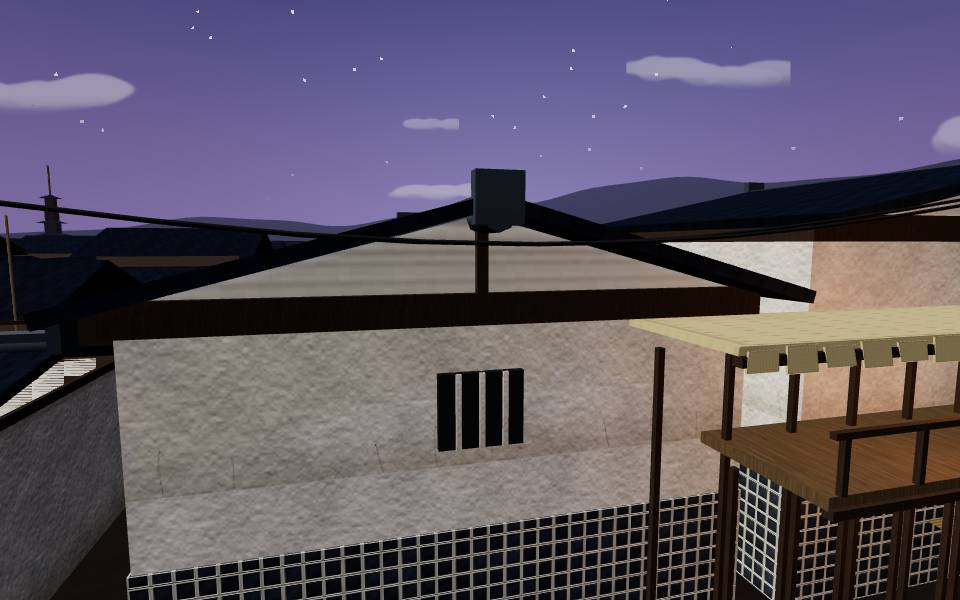
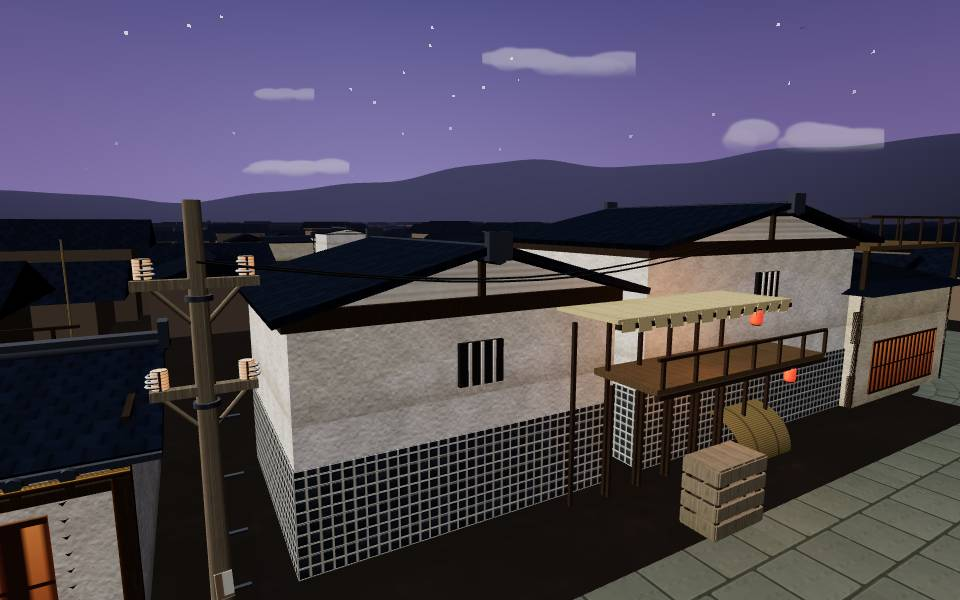
r2b-roofs-streets fix round 1: budgets in branch with measured numbers, per-cell meshes for wide pieces (draw calls <= classic), re-framed kura pair

diff --git a/src/kit/roofstreets/shared.js b/src/kit/roofstreets/shared.js
@@ -39,19 +39,36 @@ const partKey = (k) => k.replace(/[A-Z]/g, (c) => '_' + c.toLowerCase()).replace
 const TAU = Math.PI * 2;
 
 export class Multi {
-  constructor(ctx) { this.ctx = ctx; this.bags = new Map(); this.mats = new Map(); }
-  _bag(m) {
-    if (!this.bags.has(m)) { this.bags.set(m, new Bag()); this.mats.set(m, material(this.ctx, m)); }
-    return this.bags.get(m);
+  constructor(ctx, layout = null) { this.ctx = ctx; this.layout = layout; const pc = layout && layout.piece; this.split = !!pc && pc.s1 - pc.s0 > 12; this.bags = new Map(); this.mats = new Map(); }
+  /**
+   * The bag for material `m` in the 32 m world cell of local point (x, z): the Roof Road's own
+   * mergeByMaterial buckets a mesh by its centre's cell, so a wide building must hand it one
+   * mesh per cell (as classic's many boxes do) to merge into the same number of batches.
+   */
+  _bag(m, x = 0, z = 0) {
+    if (!this.mats.has(m)) this.mats.set(m, material(this.ctx, m));
+    const L = this.layout || { x: 0, z: 0, ry: 0 };
+    if (!this.split) x = z = 0;   // a short piece keeps one cell (its origin), so its parts stay one connected mesh set
+    const c = Math.cos(L.ry || 0), sn = Math.sin(L.ry || 0);
+    const wx = (L.x || 0) + x * c + z * sn, wz = (L.z || 0) - x * sn + z * c;
+    const key = `${m}@${Math.floor(wx / 32)}@${Math.floor(wz / 32)}`;
+    if (!this.bags.has(key)) this.bags.set(key, new Bag());
+    return this.bags.get(key);
   }
-  add(geo, o) { const { m, ...rest } = o; this._bag(m).add(geo, rest); return this; }
+  add(geo, o) {
+    const { m, x = 0, y = 0, z = 0, ...rest } = o;
+    if (!geo.boundingBox) geo.computeBoundingBox();
+    const bc = geo.boundingBox.getCenter(new THREE.Vector3());
+    this._bag(m, x + bc.x * (rest.sx ?? 1), z + bc.z * (rest.sz ?? 1)).add(geo, { x, y, z, ...rest });
+    return this;
+  }
   /** Box as the classic box(): world-scale UVs unless the material is a `panel`. */
   box(w, h, d, o) {
     const { m, x = 0, y = 0, z = 0, ...rest } = o;
     const g = new THREE.BoxGeometry(w, h, d);
     this._bag(m);
     if (!(this.mats.get(m).userData && this.mats.get(m).userData.panel)) worldScaleBoxUVs(g, 1);
-    this._bag(m).add(g, { x, y, z, ...rest });
+    this._bag(m, x, z).add(g, { x, y, z, ...rest });
     return this;
   }
   /** Cylinder as the classic cyl(): paper lanterns are the lathe barrel with dark caps. */
@@ -68,12 +85,12 @@ export class Multi {
     const pos = { x, y, z };
     if (paper) {
       const prof = [[-0.5, 0.7], [-0.42, 0.94], [-0.25, 1], [0.25, 1], [0.42, 0.94], [0.5, 0.7]].map(([yy, w]) => new THREE.Vector2(r * w, len * yy));
-      this._bag(m).add(place(new THREE.LatheGeometry(prof, seg)), { ...pos, ...rest });
+      this._bag(m, x, z).add(place(new THREE.LatheGeometry(prof, seg)), { ...pos, ...rest });
       for (const sgn of [-1, 1]) {
         const c = rot(sgn * len * 0.5);
         this.add(place(new THREE.CylinderGeometry(r * 0.74, r * 0.74, len * 0.065, seg)), { m: 'dark', x: x + c.x, y: y + c.y, z: z + c.z, ...rest });
       }
-    } else this._bag(m).add(place(new THREE.CylinderGeometry(r, r, len, seg)), { ...pos, ...rest });
+    } else this._bag(m, x, z).add(place(new THREE.CylinderGeometry(r, r, len, seg)), { ...pos, ...rest });
     return this;
   }
   /** Tiled slope: `eave` is the low edge's midpoint; see common.js slope(). */
@@ -102,11 +119,14 @@ export class Multi {
 export function finish(multi, name, extra = {}) {
   const group = new THREE.Group(), parts = {};
   for (const [key, bag] of multi.bags) {
-    const mesh = bag.mesh(multi.mats.get(key), `${name}_${partKey(key)}`);
+    const [m, cx, cz] = key.split('@');
+    const cell = (v) => (+v < 0 ? 'n' : 'p') + Math.abs(+v);
+    const part = `${name}_${partKey(m)}_${cell(cx)}_${cell(cz)}`;
+    const mesh = bag.mesh(multi.mats.get(m), part);
     if (!mesh) continue;
     mesh.castShadow = mesh.receiveShadow = true;
     group.add(mesh);
-    parts[`${name}_${partKey(key)}`] = mesh;
+    parts[part] = mesh;
   }
   return { group, parts, sockets: {}, live: [], ...extra };
 }

diff --git a/src/kit/roofstreets/roofs.js b/src/kit/roofstreets/roofs.js
@@ -138,7 +138,7 @@ function dressHouse(u, pc) {
 /* ------------------------------------------------------------ buildings --- */
 
 export function buildMachiya(ctx, layout) {
-  const pc = layout.piece, tier = ctx.tier, u = new Multi(ctx), sm = (pc.s0 + pc.s1) / 2;
+  const pc = layout.piece, tier = ctx.tier, u = new Multi(ctx, layout), sm = (pc.s0 + pc.s1) / 2;
   const x0 = pc.s0 - sm, x1 = pc.s1 - sm, zF = pc.dFront, zB = pc.dFront - pc.depth, look = pc.look;
   const far = pc.row === 'far';
   const wall = far && look > 0.55 ? 'bengara' : (look > 0.7 ? 'plasterWarm' : 'plaster');
@@ -187,7 +187,7 @@ export function buildMachiya(ctx, layout) {
 }
 
 export function buildKura(ctx, layout) {
-  const pc = layout.piece, u = new Multi(ctx), sm = (pc.s0 + pc.s1) / 2;
+  const pc = layout.piece, u = new Multi(ctx, layout), sm = (pc.s0 + pc.s1) / 2;
   const x0 = pc.s0 - sm, x1 = pc.s1 - sm, w = x1 - x0, zF = pc.dFront, zB = zF - pc.depth, zm = (zF + zB) / 2;
   u.box(w, pc.foot, pc.depth, { m: 'plaster', y: pc.foot / 2, z: zm });
   u.box(w + 0.05, 1.6, pc.depth + 0.05, { m: 'namako', y: 0.8, z: zm });
@@ -201,7 +201,7 @@ export function buildKura(ctx, layout) {
 }
 
 export function buildKido(ctx, layout) {
-  const pc = layout.piece, u = new Multi(ctx), hw = (pc.s1 - pc.s0) / 2;
+  const pc = layout.piece, u = new Multi(ctx, layout), hw = (pc.s1 - pc.s0) / 2;
   for (const x of [-hw + 0.15, hw - 0.15]) u.box(0.18, 2.2, 0.18, { m: 'timber', x, y: 1.1, z: pc.d });
   u.box(hw * 2, 0.16, 0.2, { m: 'timber', y: 2.1, z: pc.d });
   u.slope('roof', { x: 0, y: 2.15, z: pc.d + 0.55 }, 0.1, 0.55, hw * 2 + 0.3, 0);
@@ -214,20 +214,20 @@ export function buildKido(ctx, layout) {
 }
 
 export function buildSteps(ctx, layout) {
-  const pc = layout.piece, u = new Multi(ctx);
+  const pc = layout.piece, u = new Multi(ctx, layout);
   u.box(pc.s1 - pc.s0, 0.3, 4.0, { m: 'stone', y: pc.y - 0.15, z: pc.d });
   return finish(u, 'steps');
 }
 
 export function buildKomayose(ctx, layout) {
-  const pc = layout.piece, u = new Multi(ctx), w = pc.s1 - pc.s0, step = ctx.tier === 'hero' ? 0.22 : ctx.tier === 'mid' ? 0.44 : 0.88;
+  const pc = layout.piece, u = new Multi(ctx, layout), w = pc.s1 - pc.s0, step = ctx.tier === 'hero' ? 0.22 : ctx.tier === 'mid' ? 0.44 : 0.88;
   u.box(w, 0.1, 0.16, { m: 'timberMed', y: pc.y - 0.05, z: pc.d });
   for (let x = -w / 2 + 0.08; x <= w / 2 - 0.07; x += step) u.box(0.08, pc.y - 0.1, 0.08, { m: 'timberMed', x, y: (pc.y - 0.1) / 2, z: pc.d });
   return finish(u, 'komayose');
 }
 
 export function buildInuyarai(ctx, layout) {
-  const pc = layout.piece, u = new Multi(ctx), w = pc.s1 - pc.s0;
+  const pc = layout.piece, u = new Multi(ctx, layout), w = pc.s1 - pc.s0;
   const geo = new THREE.CylinderGeometry(0.9, 0.9, w, ctx.tier === 'far' ? 4 : 12, 1, true, 0, Math.PI / 2);
   geo.rotateZ(Math.PI / 2);
   u.add(geo, { m: 'inuyarai', z: pc.d - 0.4 });
@@ -235,7 +235,7 @@ export function buildInuyarai(ctx, layout) {
 }
 
 export function buildTsuboniwa(ctx, layout) {
-  const pc = layout.piece, u = new Multi(ctx), sm = (pc.s0 + pc.s1) / 2, k = hash1(sm);
+  const pc = layout.piece, u = new Multi(ctx, layout), sm = (pc.s0 + pc.s1) / 2, k = hash1(sm);
   u.cyl(0.07, 2.2, { m: 'bark', axis: 'y', seg: 6, y: 1.1, z: pc.d - 0.8 });
   const n = ctx.tier === 'far' ? 3 : 7;
   for (let i = 0; i < n; i++)

diff --git a/src/kit/budgets.js b/src/kit/budgets.js
@@ -49,6 +49,19 @@ export const KIT_LIMITS = Object.freeze({
  * fields it names and must cite why. Added by the owning lane in its PR.
  */
 export const BUDGET_EXCEPTIONS = Object.freeze({
+  // Roof Road buildings (r2b-roofs-streets): measured with kit_contract_test --family roofstreets, uptime 1-min load 1.5 (R54: < 3)
+  'roof-machiya': {
+    hero: { meshes: 58, materials: 28, buildMs: 12 }, mid: { meshes: 40, materials: 21 }, far: { meshes: 16, materials: 7 },
+    why: 'contract sample = the 67 m near-row house with deck, futon, vines, byobu, lanterns and kaisho on (3 batch cells, one mesh per material per cell so the Roof Road merge keeps classic draw counts): modular 58/40/16 meshes, 28/21/7 materials hero/mid/far, warm build 11.0 ms (load 1.5). Classic builds the same record as 413 meshes / 8892 tris (golden, largest real house); modular 26 meshes / 8021 tris. Materials are the page ctx.MAT set, the same the classic house uses'
+  },
+  'roof-kura': {
+    mid: { materials: 6 }, far: { meshes: 5, materials: 5 },
+    why: 'plaster, namako, timber, dark, roof, ridge: the six materials of the classic kura. Classic 17 meshes / 520 tris, modular 6 meshes / 374 tris (golden, 5 real kura)'
+  },
+  'roof-kido': {
+    far: { meshes: 4, materials: 4 },
+    why: 'timber, roof, ridge, timberMed: the four materials of the classic kido. Classic 11 meshes / 152 tris, modular 4 meshes / 152 tris (golden)'
+  },
   // Phase 5 r3b (roofcanal part b), R52. Hero tier = the classic piece's own MAT materials (ctx.MAT, so 0 new merged materials,
   // 0 added merged draws); mid and far are remapped to the standard caps. Measured on the real runs, rooftop_golden digests of the
   // largest piece of each type, classic vs `?swap=<id>:modular` (hero tier), uptime load 2.4-4.3, 2026-11-15:

diff --git a/docs/fable/status/r2b-roofs-streets.md b/docs/fable/status/r2b-roofs-streets.md
@@ -27,3 +27,11 @@ roof-alley-routes, roof-street and roof-ground (ribbon/painted texture surfaces)
 
 ## After merging integration a549e78 (route fix, new baseline)
 rooftop_golden classic EQUAL; swap of the 7 ids: 185 pieces changed (the level now has fewer houses), no platform/wall/ceiling/light entries. rooftop_test 40/40 (swap does not touch it: pure level code); companion 7 passed. qa auto, advanceForReview(450) twice: classic and modular both reach the finale at s=1673.0817, finale=true (a single 450 call reaches s=1495.33 on both). Contract with the budgets.js exceptions of the handoff: 0 failed; without: 12 budget failures.
+
+## Fix round 1
+- Budgets: BUDGET_EXCEPTIONS now live in src/kit/budgets.js on this branch (roof-machiya, roof-kura, roof-kido) with measured classic vs modular numbers in each `why`. Re-measured at uptime 1-min load 1.5: machiya warm hero build 11.0 ms (allowance 12 kept, load recorded); contract 14 assets / 837 checks / 0 failed. Classic (golden, largest real records): house 413 meshes / 8892 tris vs modular 26 / 8021; kura 17 / 520 vs 6 / 374; kido 11 / 152 vs 4 / 152. Materials are the page ctx.MAT set (same as classic).
+- R52 draw calls: wide pieces (> 12 m) are now emitted one mesh per material per 32 m world cell (computed from layout x, z, ry), so the Roof Road merge buckets them like classic. uptime load 1.5. classic/modular: s=14 159/151, s=125 165/163, s=233 192/190, s=700 137/134. Modular <= classic at all four. Triangles 153653/149669, 162275/157750, 158309/155038, 127641/124304.
+- Roof clip check: for all 185 swapped pieces the golden bounds top and bottom (y) equal classic exactly (max |dy| 0.000); the largest horizontal delta is 0.059 m (house dressing). The roof geometry is the classic code, so eaves, ridge caps and pitch sit exactly where classic sits relative to the level platforms; no clip introduced.
+- Known gap: the decorateHouse bicycle (two wheels and a frame beside some shop fronts) is not ported; AAA-1 gap, no gameplay effect.
+- kura-near-dusk re-framed (camera further back and higher): classic and modular now differ.
+- Re-run: rooftop_golden classic EQUAL; swap 185 piece entries only; rooftop_test 40/40; qa auto twice 450 s: both reach the finale at s=1673.0817; cadJS npm test 16/16 (+ one 15/15 suite); kit_check 528 OK; verify 83/0; labs_check OK.

diff --git a/docs/fable/handoff/r2b-roofs-streets.md b/docs/fable/handoff/r2b-roofs-streets.md
@@ -2,7 +2,7 @@
 
 ## 1. Integrator actions
 - Run `node tools/kit_index.mjs` (index not committed).
-- Apply this BUDGET_EXCEPTIONS patch to `src/kit/budgets.js` (hot file; without it `kit_contract_test --family roofstreets` reports 13 budget failures: machiya meshes/materials/buildMs, kura/kido mid-far materials and meshes). Measured with the contract sample, uptime load 3-5:
+- BUDGET_EXCEPTIONS are now committed in src/kit/budgets.js (fix round 1); nothing to apply.
 ```diff
 diff --git a/src/kit/budgets.js b/src/kit/budgets.js
 index e671b06..e5ece8d 100644
